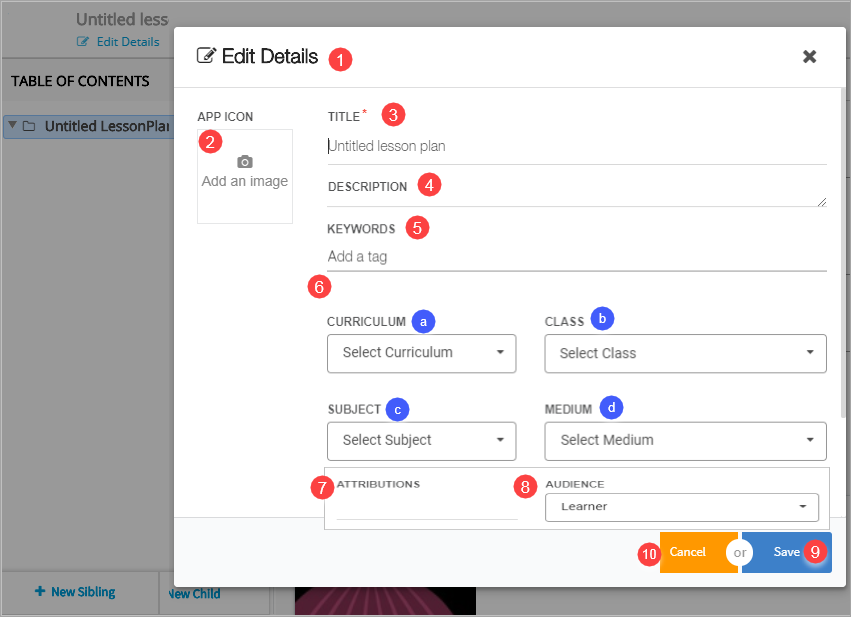
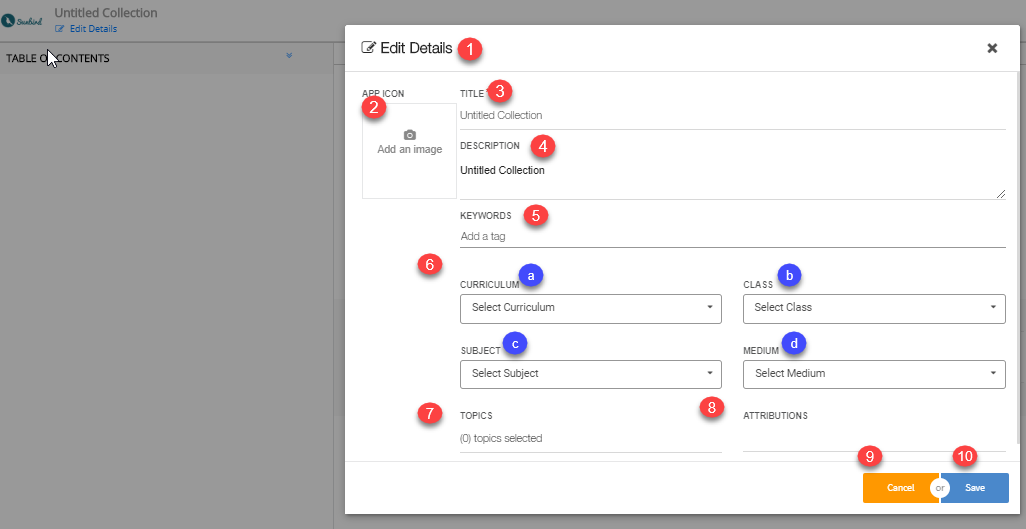
edited lesson plan book coursecollection

Changed region(s): [[0.0, 0.0, 1.0, 0.9981], [0.0306, 0.9376, 0.1528, 0.9679]]

diff --git a/pages/developer-docs/how-to-guide/How_to_ upload_existing_content_using _sunbird (1).md b/pages/developer-docs/how-to-guide/How_to_ upload_existing_content_using _sunbird (1).md
@@ -1,0 +1,303 @@
+---
+type: landing
+directory: developer-docs/how-to-guide
+title: Associating Organization and User
+page_title: Associating Organization and User
+description: Create a new user in Sunbird instance
+keywords: create user, new user, create, user
+published: true
+allowSearch: true
+---
+
+### Scenario
+
+A company, XYZ Corp, is a global conglomerate with over ten thousand employees, spread across 7 locations. Employee training and enablement is one of the core values of the organization. To make their training meterial exhaustive and effective many content or coursecreato are creating content using various source To ensure that employees are trained and upskilled. Before they opt for Sunbird platform, they already had many existing content with them. They can still upload the existing content to Sunbird platform to make it accessible to their current employeers.
+
+### Prerequisite
+
+* Content creation access
+
+* You must have the content object with unique object Id, using this,  available content file can be uploaded.
+
+### Intended Audience
+
+Identify the users who can manage the content and assign them <b>Content Creator</b> role.
+They can create content and upload using the content creator right as well.
+
+Identify the users who will review the content and assign them <b>content reviewer</b> role. 
+
+>Note:
+
+Reviewer can not do any change in content. He review the content and put review comment for further changes or publish the content.
+
+### Overview
+
+Sunbird enables its adopter (users) to create, store and consume  a wide variety of content. Users with content creation right can create content on Sunbird or upload existing content.
+
+Currently, the platform supports the following content formats:
+
+* Text (.pdf)
+
+* Video (.mp4, .webm, YouTube URLs)
+
+* HTML
+
+* ECML (created using the inbuilt content editor)
+
+* EPUB
+
+* H5P
+
+It also supports the following formats for its resource library:
+
+* Audio (.mp3)
+
+* Images (.jpeg, .png)
+
+* URLs for YouTube videos and other files
+
+* Videos (.mp4) Later, there will be support for other file formats.
+
+Maximum file size supported on the platform:
+
+<table>
+  <tr>
+    <td>Content/ File Type</td>
+    <td>Maximum File Size</td>
+  </tr>
+  <tr>
+    <td>Book,Course,Collection,Lesson Plan</td>
+    <td>250 MB</td>
+  </tr>
+  <tr>
+    <td>HTML (as zip files)</td>
+    <td>50 MB</td>
+  </tr>
+  <tr>
+    <td>EPUB</td>
+    <td>50 MB</td>
+  </tr>
+  <tr>
+    <td>H5P</td>
+    <td>50 MB</td>
+  </tr>
+  <tr>
+    <td>Video (.mp4, webm)</td>
+    <td>50 MB</td>
+  </tr>
+  <tr>
+    <td>.pdf</td>
+    <td>50 MB</td>
+  </tr>
+</table>
+
+
+content object with below mandatory metadata fields should be created: before uploading the content:
+
+- ContentType
+
+- Mime Type
+
+The uploaded content will be validated through these metadata.
+
+You can even upload video content created by other users, provided you have the required permissions from the content creator or copyright holder. The videos should adhere to prescribed guidelines about file formats and size.
+
+### Taskflow
+
+To complete this scenario, you need to create the content with appropriate metadata & ownership information, upload the existing  content artifact, and publish the content for public usage.
+
+You can upload existing content into the Sunbird platform using User Interface or Upload Content API.
+
+#### Uploading Content Using API
+
+This API is associated with uploading content on the Sunbird Platform .
+
+* The <b>_/upload/{content_ID}</b> endpoint executes "Upload Content" request based on the content metadata validation with the uploaded file.
+
+* {...}refers to a section of upload endpoint URL path that needs to be replaced by appropriate ID.
+
+* You need to provide a valid content ID value in {Content Id} field of API URL. 
+
+* It is a must to provide values for the required parameters
+
+**Path  Parameter:**
+
+<table>
+  <tr>
+    <td>Path  Parameter</td>
+    <td>Parameter Type</td>
+    <td>Description</td>
+    <td>Is Mandatory</td>
+  </tr>
+  <tr>
+    <td>Content ID
+</td>
+    <td>String</td>
+    <td>Content ID of the Request URL</td>
+    <td>Yes</td>
+  </tr>
+</table>
+
+
+**Form data Parameter:**
+
+<table>
+  <tr>
+    <td>Form data Parameter</td>
+    <td>Parameter Type</td>
+    <td>Description</td>
+    <td>Is Mandatory</td>
+  </tr>
+  <tr>
+    <td>file</td>
+    <td>String</td>
+    <td>Content file path that you want to upload</td>
+    <td>Yes</td>
+  </tr>
+</table>
+
+
+**Header Parameter**
+
+<table>
+  <tr>
+    <td>Header Parameter</td>
+    <td>Parameter Type</td>
+    <td>Description</td>
+    <td>Is Mandatory</td>
+  </tr>
+  <tr>
+    <td>Content-Type</td>
+    <td>String</td>
+    <td>The Content Type entity is the media type of the resource.Possible media types can be: Multipart/form-data</td>
+    <td>Yes</td>
+  </tr>
+  <tr>
+    <td>X-Authenticated-Userid</td>
+    <td>String</td>
+    <td>Represents the registered User ID to execute the API.</td>
+    <td>Yes</td>
+  </tr>
+  <tr>
+    <td> Authorization</td>
+    <td>String</td>
+    <td>To make use of the API, you require authorization. Raise a request to the administrator for the use of the API. You will receive the authorization key. Specify the key received. </td>
+    <td>Yes</td>
+  </tr>
+  <tr>
+    <td>ts</td>
+    <td>String</td>
+    <td>Time Stamp at which upload request was sent.</td>
+    <td>Yes</td>
+  </tr>
+</table>
+
+
+Following is an example of  <b>response body<b/> for <b>uploading content API</b>:
+
+{
+
+    "id": "ekstep.learning.content.upload",
+
+    "ver": "3.0",
+
+    "ts": "2018-09-05T10:55:22ZZ",
+
+    "params": {
+
+        "resmsgid": "d6dui5d1-60u8-4a79-23f9-78796195c2h7",
+
+        "msgid": null,
+
+        "err": null,
+
+        "status": "successful",
+
+        "errmsg": null
+
+    },
+
+    "responseCode": "OK",
+
+    "result": {
+
+        "content_url": "https://ekstep-public-prod.s3-ap-south-1.amazonaws.com/content/do_112534095400542340156583/artifact/highq_153614492126723.pdf",
+
+        "node_id": "do_112534095400542340156583",
+
+        "versionKey": "153614492126723"
+
+    }
+
+}
+
+For the youtube content or file url, pass it as fileUrl in **Upload API** or set the artifact Url of the content using **[Update Content AP**I](http://www.sunbird.org/apis/content/#operation/Update%20Content)**.**
+
+For more details, refer to the **[Upload Conten**t](http://www.sunbird.org/apis/content/#operation/Upload%20Content)[ API](http://www.sunbird.org/apis/content/#operation/Upload%20Content). 
+
+After you uploading the content, publish the content using **[Publish Content AP**I](http://www.sunbird.org/apis/content/#operation/Publish%20Content). 
+
+**Request body:**
+
+{
+
+  "request": {
+
+    "content": {
+
+      "lastPublishedBy": "string",
+
+      "publishChecklist": [
+
+        "string"
+
+      ]
+
+    }
+
+  }
+
+}
+
+**Response body:**
+
+{
+
+  "result": {
+
+    "node_id": "string",
+
+    "versionKey": "string"
+
+  },
+
+  "id": "string",
+
+  "ver": "string",
+
+  "ts": "string",
+
+  "params": {
+
+    "resmsgid": "string",
+
+    "msgid": "string",
+
+    "err": "string",
+
+    "status": "string",
+
+    "errmsg": "string"
+
+  },
+
+  "responseCode": {}
+
+}
+
+>Note:
+
+Reviewer has the right to publish content. Use id of one of the selected reviewers as publisher user id.
+
+
+

diff --git a/pages/features-documentation/course_creation.md b/pages/features-documentation/course_creation.md
@@ -70,14 +70,16 @@ On Sunbird, you can compile a course by adding content to it. You can create eac
       <br>4. Enter <b>Description</b> 
       <br>5. Enter <b>Keywords</b> 
       <br>6. Select the following from their respective drop-down lists: 
-      <br>&emsp;a) Board 
+      <br>&emsp;a) Curriculum
       <br>&emsp;b) Class 
       <br>&emsp;c) Subject 
       <br>&emsp;d) Medium 
-      <br>7. Select <b>Audience</b> 
-      <br>8. Enter <b>Attributions</b> <br>9. Click <b>Save</b> to save the details <br>10. Click <b>Cancel</b> to exit the page
+      <br>7. Enter <b>Topic</b> 
+      <br>8. Enter <b>Attributions</b> 
+      <br>9. Select <b>Audience</b> from the drop-down.
+      <br>10. Click <b>Save</b> to save the details <br>11. Click <b>Cancel</b> to discard the change
     </td>
-    <td><img src="pages/features-documentation/images/add_details.png"></td>
+    <td><img src="pages/features-documentation/images/course/course_details.png"></td>
   </tr>
  </table>
  

diff --git a/pages/features-documentation/collection_creation.md b/pages/features-documentation/collection_creation.md
@@ -89,10 +89,11 @@ Collection is a compilation of content.	A collection can be compiled on Sunbird 
       <br>&emsp;b) <b>Class</b> 
       <br>&emsp;c) <b>Subject</b> 
       <br>&emsp;d) <b>Medium</b> 
-      <br>7. Enter <b>Attributions</b> 
-      <br>8. Select <b>Audience</b> 
-      <br>9. Click <b>Save</b> on the header to save the details
-      <br>10. Click <b>Cancel</b> to go back to the previous screen
+      <br>7. Enter <b>topic</b> 
+      <br>8. Enter <b>Attributions</b> 
+      <br>9. Select <b>Audience</b> from the drop-down.
+      <br>10. Click <b>Save</b> on the header to save the details
+      <br>11. Click <b>Cancel</b> to go back to the previous screen
     </td>
     <td><img src="pages/features-documentation/images/collection/collection_editdetails.png"></td>
   </tr>

diff --git a/pages/features-documentation/lessonplan.md b/pages/features-documentation/lessonplan.md
@@ -81,8 +81,8 @@ Lesson plan is a structured outline of a given topic, unit, chapter to be taught
       <br>&emsp;b) <b>Class</b> 
       <br>&emsp;c) <b>Subject</b> 
       <br>&emsp;d) <b>Medium</b> 
-      <br>7. Enter <b>Attributions</b>
-      <br>8. Select <b>Audience</b>
+      <br>7. Enter <b>Topics</b>
+      <br>8. Enter <b>Attribution</b>
       <br>9. Click <b>Save</b> to collectively save all updates.  
       <br>10. Click <b>Cancel</b> to exit the page 
     </td>
